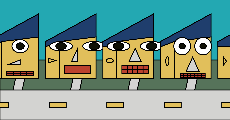
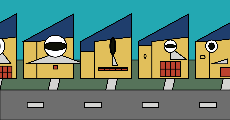
changed road bug and updated random function used

diff --git a/face_code.js b/face_code.js
@@ -59,7 +59,7 @@ const grey=[211,211,209];
 const white=[255,255,255];
 const myBgCol=[35,168,178];//light blue
 const green=[86,115,90];
-
+const darkGrey=[110,110,110];
 class Face{
  
   headHeight=8;
@@ -84,34 +84,35 @@ class Face{
   
   constructor(){
     this.faceX=0;
-    this.sideBurn=sideBurns[Math.floor(Math.random() * sideBurns.length)];
+    this.sideBurn=sideBurns[Math.floor(p5.prototype.random() * sideBurns.length)];
     if(this.sideBurn!="none"){
-      this.sideBurnHeight=random(minSideBurnHeight,maxSideBurnHeight);
+      this.sideBurnHeight=p5.prototype.random(minSideBurnHeight,maxSideBurnHeight);
     }
     this.earShape=earShapes[Math.floor(Math.random() * earShapes.length)];
-    this.noseHeight=random(minNoseHeight,maxNoseHeight);
+    this.noseHeight=p5.prototype.random(minNoseHeight,maxNoseHeight);
     this.noseDirection=noseDirections[Math.floor(Math.random() * noseDirections.length)];
-    this.noseY=random(minNoseY,maxNoseY);
-    this.noseWidth=random(minNoseWidth,this.getMaxNoseWidth());
-    this.eyeWidth=random(minEyeWidth,maxEyeWidth);
-    this.eyeX=random(minEyeX,this.getMaxEyeX());
-    this.eyeHeight=random(minEyeHeight,maxEyeHeight);
-    this.innerEyeWidth=random(minInnerEyeWidth,maxInnerEyeWidth);
-    this.innerEyeHeight=random(minInnerEyeHeight,maxInnerEyeHeight);
+    this.noseY=p5.prototype.random(minNoseY,maxNoseY);
+    this.noseWidth=p5.prototype.random(minNoseWidth,this.getMaxNoseWidth());
+    this.eyeWidth=p5.prototype.random(minEyeWidth,maxEyeWidth);
+    this.eyeX=p5.prototype.random(minEyeX,this.getMaxEyeX());
+    this.eyeHeight=p5.prototype.random(minEyeHeight,maxEyeHeight);
+    this.innerEyeWidth=p5.prototype.random(minInnerEyeWidth,maxInnerEyeWidth);
+    this.innerEyeHeight=p5.prototype.random(minInnerEyeHeight,maxInnerEyeHeight);
     
     
    
-    this.earY=random(minEarY,maxEarY);
-    this.innerEarWidth=this.earWidth*random(minInnerEarWidth,maxInnerEarWidth);
-    this.innerEarHeight=this.headHeight*random(minInnerEarHeight,this.getMaxInnerEarHeight());
-    this.mouthHeight=random(minMouthHeight,this.getMaxMouthHeight());
-    this.mouthWidth=random(minMouthWidth,maxMouthWidth);
+    this.earY=p5.prototype.random(minEarY,maxEarY);
+    this.innerEarWidth=this.earWidth*p5.prototype.random(minInnerEarWidth,maxInnerEarWidth);
+    this.innerEarHeight=this.headHeight*p5.prototype.random(minInnerEarHeight,this.getMaxInnerEarHeight());
+    this.mouthHeight=p5.prototype.random(minMouthHeight,this.getMaxMouthHeight());
+    this.mouthWidth=p5.prototype.random(minMouthWidth,maxMouthWidth);
     this.hasTeeth=Math.random()<0.5;
-    this.mouthY=random(this.getMinMouthY(),this.getMaxMouthY());
-    this.numberOfteeth=Math.floor(random(minNumberOfteeth,maxNumberOfTeeth));
+    this.mouthY=p5.prototype.random(this.getMinMouthY(),this.getMaxMouthY());
+    this.numberOfteeth=Math.floor(p5.prototype.random(minNumberOfteeth,maxNumberOfTeeth));
    
   
   }
+  
   getMaxEyeX(){
     return this.headWidth/2+this.eyeWidth*.25;
   }

diff --git a/arrangement.js b/arrangement.js
@@ -101,12 +101,12 @@ function draw () {
     
   }
   //draw road
-  fill(grey);
+  fill(darkGrey);
   strokeWeight(myStrokeWeight*face_scale);
   rect(0,topOfRoad,width+10,height);
   //draw lines on road
   rectMode(CENTER);
-  fill(yellow);
+  fill(grey);
   faceList.forEach((face) => {
     rect(face.faceX-80,height-(height-topOfRoad)/2,70,20);
   });

diff --git a/editor.js b/editor.js
@@ -1,7 +1,6 @@
 /*
  * This editor shows the possible faces that can be created
  */
-
 const canvasWidth = 960;
 const canvasHeight = 500;
 let face;

diff --git a/README.md b/README.md
@@ -1,1 +1,1 @@
-I have added some lines to the road. I think it works as it gives some minimal detail to the raod but the yellow is too brighter colour for this and pulls attention away from the houses. I also think the road itself should be darker. 
+I have changed the road colours which look way better although I am wondering thats too much light grey now. I have also updated the random function used which improves the performance. 
